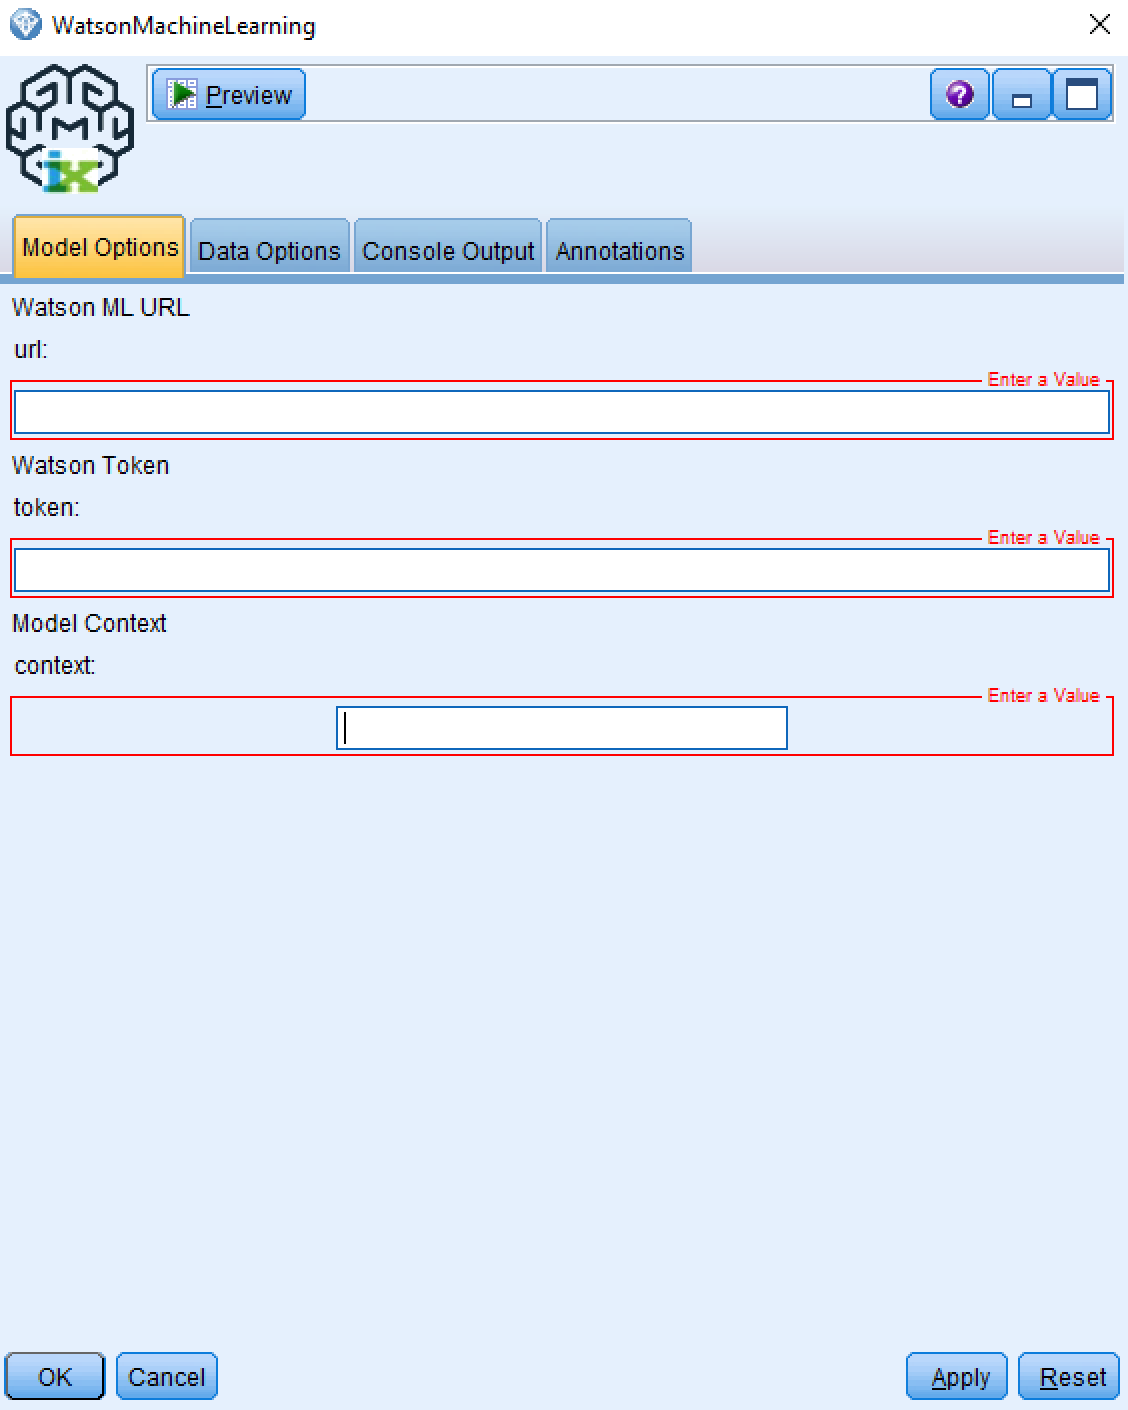
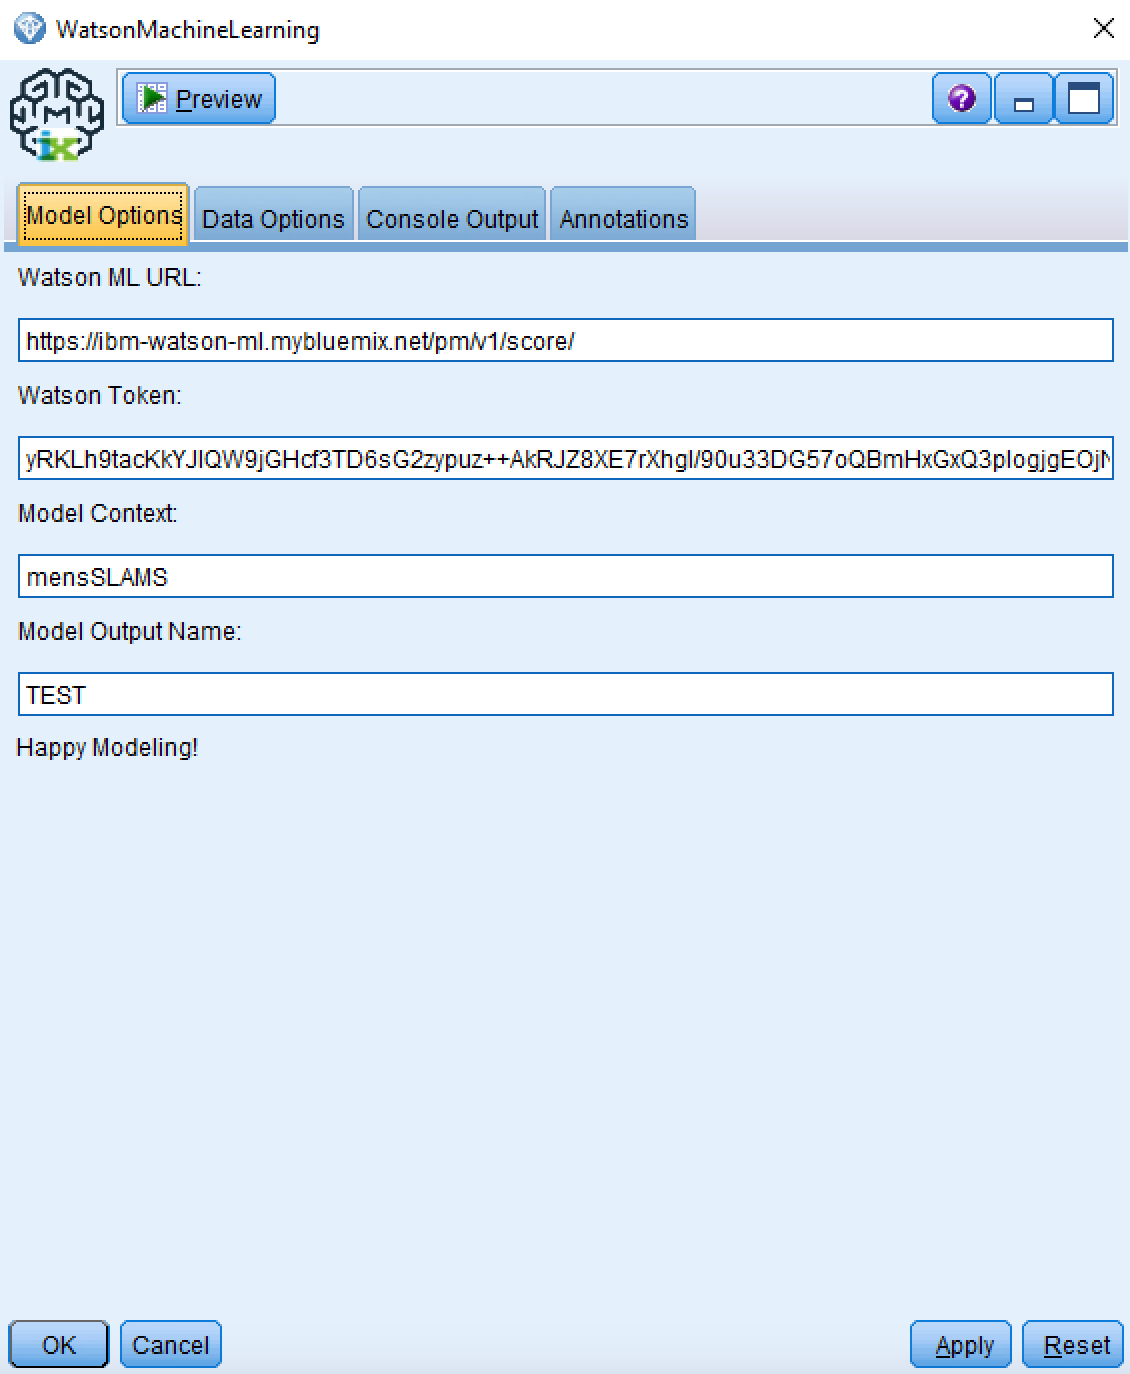
ENH: Parameterized the model output field name.

Changed region(s): [[0.0, 0.0, 1.0, 0.5502], [0.8067, 0.9476, 1.0, 1.0], [0.0, 0.9476, 0.2172, 1.0]]

diff --git a/README.md b/README.md
@@ -32,6 +32,7 @@ The following parameters must be included.
 - Watson ML URL: The base url to the Bluemix Watson Machine Learning service
 - Watson Token: The access token for the Bluemix Watson Machine Learning service
 - Watson Context: The model name or context
+- Model Output Name: The name of the output field
 
 ![parameters](./src/main/resources/parameters.png)
 
